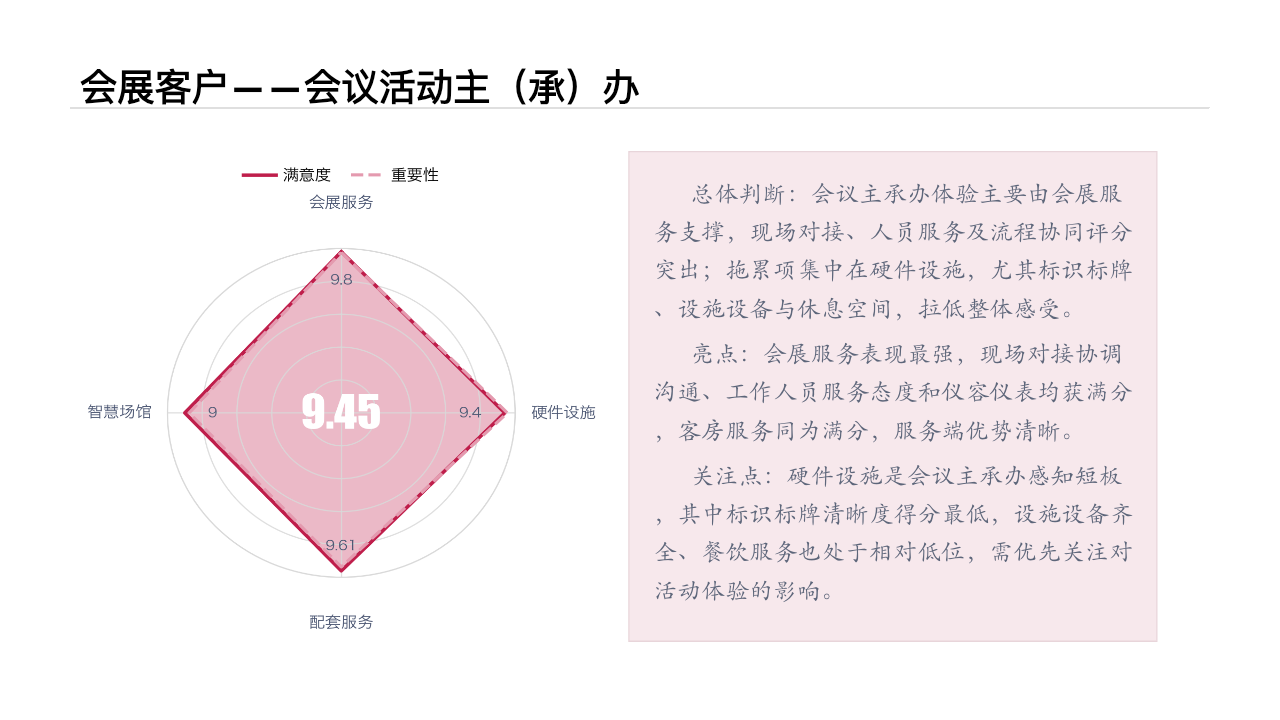
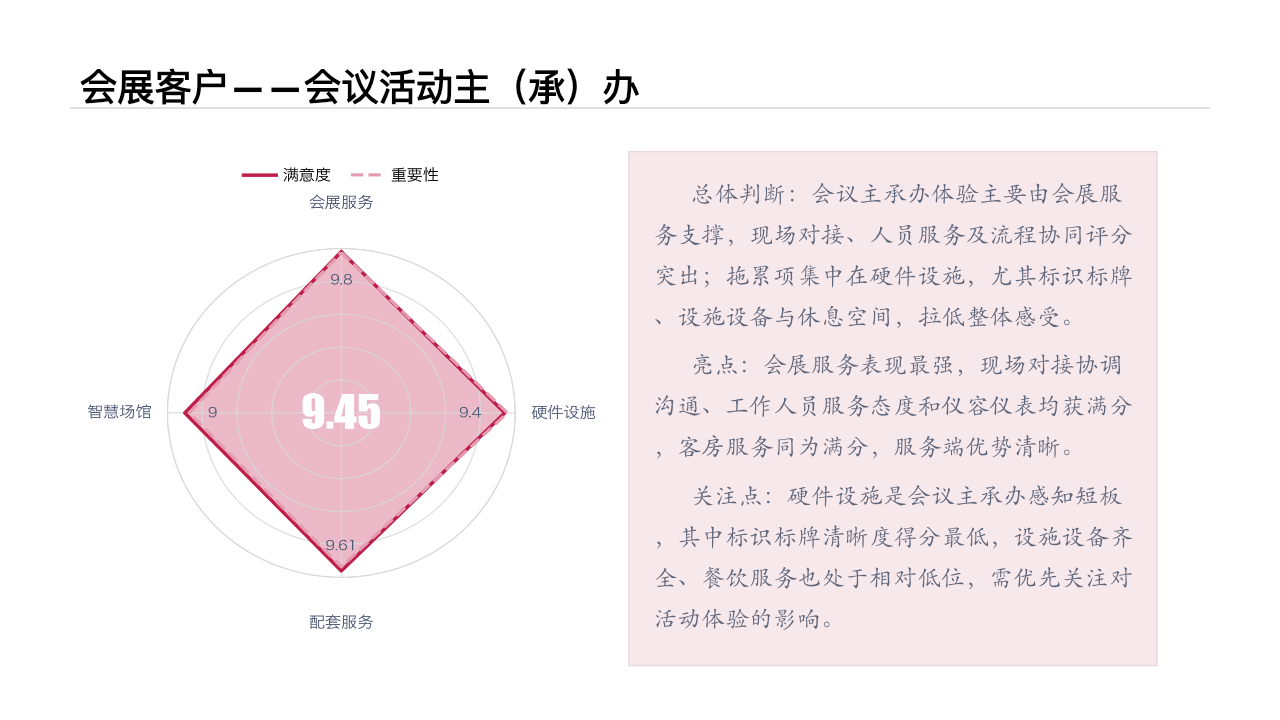
数据描述优化前的备份

Changed region(s): [[0.5, 0.3667, 0.9062, 0.8861], [0.5, 0.3056, 0.9062, 0.3361]]

diff --git a/generate_ppt.py b/generate_ppt.py
@@ -77,6 +77,7 @@ CHART_TEXTBOX_MIN_PARAGRAPH_SPACE_AFTER_PT = 2
 CHART_TEXTBOX_MARGIN_PT = 18
 CHART_TEXTBOX_HEIGHT_SAFETY_PT = 10
 CHART_TEXTBOX_LINE_HEIGHT_SAFETY_FACTOR = 1.13
+CHART_TEXTBOX_BOTTOM_SAFE_MARGIN_IN = 0.45
 FORBIDDEN_PAGE_REFERENCES = ("本页", "该页", "当前页面", "当前页")
 
 
@@ -1207,7 +1208,13 @@ def render_chart_textbox(
     region: TableRegion,
     text: str,
 ) -> None:
-    left, top, width, height = region.emu()
+    max_height_region = build_chart_textbox_max_height_region(slide, region)
+    text_style = resolve_chart_textbox_style(text, max_height_region)
+    textbox_height = resolve_chart_textbox_height_inches(text, max_height_region, text_style)
+    left = Inches(region.left)
+    top = Inches(region.top)
+    width = Inches(region.width)
+    height = Inches(textbox_height)
     textbox = slide.shapes.add_textbox(left, top, width, height)
     textbox.fill.solid()
     textbox.fill.fore_color.rgb = RGBColor.from_string(CHART_TEXTBOX_FILL_COLOR)
@@ -1222,7 +1229,6 @@ def render_chart_textbox(
     text_frame.margin_right = Pt(CHART_TEXTBOX_MARGIN_PT)
     text_frame.margin_top = Pt(CHART_TEXTBOX_MARGIN_PT)
     text_frame.margin_bottom = Pt(CHART_TEXTBOX_MARGIN_PT)
-    text_style = resolve_chart_textbox_style(text, region)
 
     for paragraph_index, line in enumerate(text.splitlines()):
         paragraph = text_frame.paragraphs[0] if paragraph_index == 0 else text_frame.add_paragraph()
@@ -1260,6 +1266,30 @@ def build_chart_textbox_style(line_spacing: float) -> ChartTextboxStyle:
         first_line_indent_pt=CHART_TEXTBOX_FIRST_LINE_INDENT_PT,
         paragraph_space_after_pt=paragraph_space_after_pt,
     )
+
+
+def build_chart_textbox_max_height_region(slide, region: TableRegion) -> TableRegion:
+    slide_height_inches = slide.part.package.presentation_part.presentation.slide_height / 914400
+    max_height_inches = max(
+        0.1,
+        slide_height_inches - region.top - CHART_TEXTBOX_BOTTOM_SAFE_MARGIN_IN,
+    )
+    return TableRegion(
+        left=region.left,
+        top=region.top,
+        width=region.width,
+        height=max_height_inches,
+    )
+
+
+def resolve_chart_textbox_height_inches(
+    text: str,
+    region: TableRegion,
+    text_style: ChartTextboxStyle,
+) -> float:
+    estimated_height_pt = estimate_chart_textbox_height_pt(text, region, text_style)
+    box_height_pt = estimated_height_pt + CHART_TEXTBOX_MARGIN_PT * 2 + CHART_TEXTBOX_HEIGHT_SAFETY_PT
+    return min(region.height, box_height_pt / 72)
 
 
 def available_chart_textbox_width_pt(region: TableRegion) -> float:

diff --git a/docs/PPT生成说明.md b/docs/PPT生成说明.md
@@ -138,6 +138,9 @@ section_mode = "auto"
 - 图表页标题与前一页数据页保持一致
 - 左侧渲染图表
 - 右侧渲染分析文字框，默认字号为 `18pt`
+- 右侧分析文字框会优先按文本实际高度自适应外边框高度
+- 若默认行距足够容纳文本，则保持默认行距，不因行数少而额外放大
+- 若文本较长，则先向下扩展文字框高度；仅在接近页底安全边距时才继续压缩行距/段后距
 - 二级指标数量为 2 时使用柱状图
 - 二级指标数量为 3 个及以上时使用雷达图
 - 过滤后不足 2 个二级指标时跳过图表页

diff --git a/docs/启动命令笔记.md b/docs/启动命令笔记.md
@@ -1,0 +1,2 @@
+### 单独生成Q1PPT
+`uv run python main_pipeline.py --year 2026 --batch Q1`